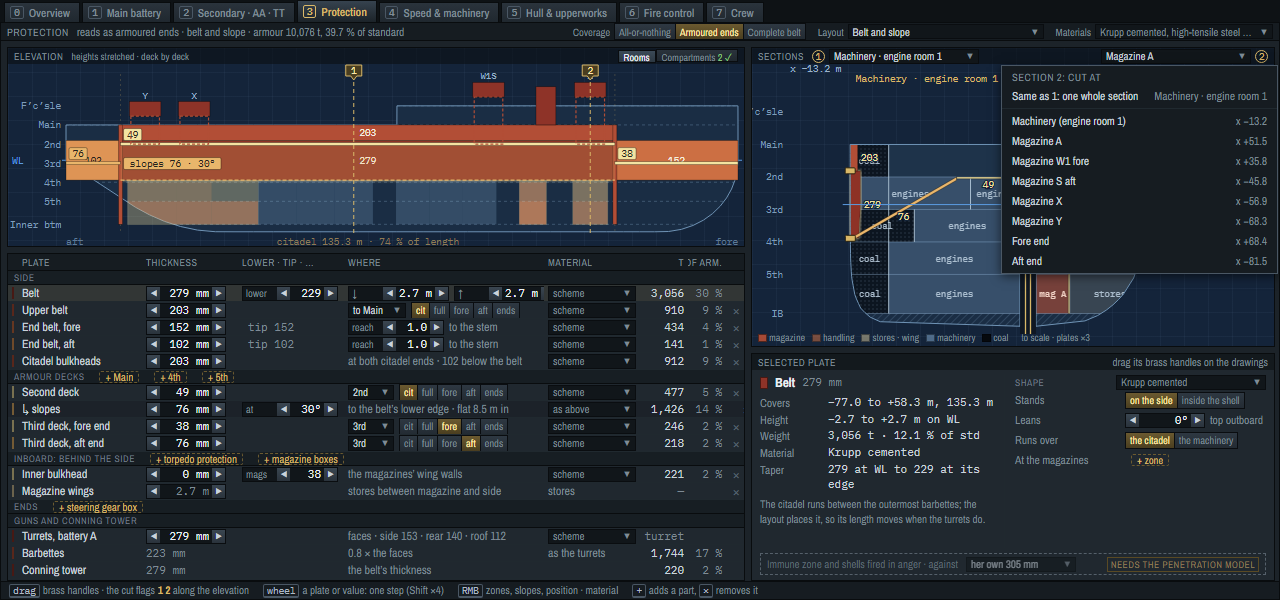
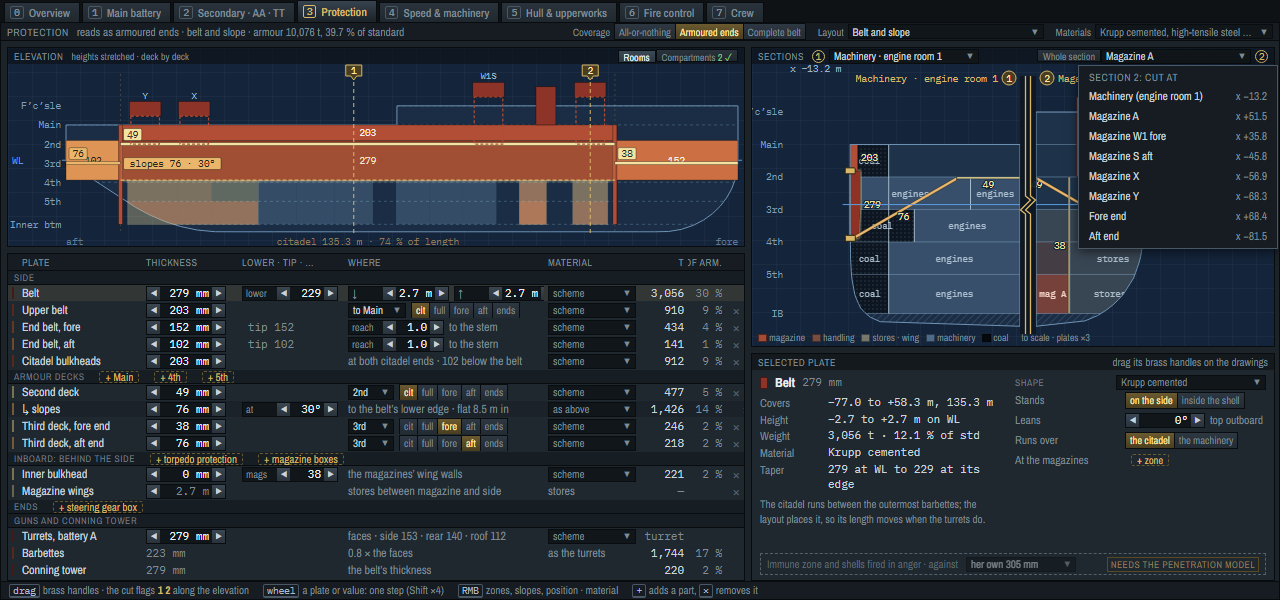
Protection layers mockup: a Whole section toggle locks section 2 to section 1
The halves stay one symmetric section while the flag or the dropdown moves
along the ship; off, section 2 returns where it was.

Changed region(s): [[0.7812, 0.06, 1.0, 0.48]]

diff --git a/docs/designer-ui/protection-layers.html b/docs/designer-ui/protection-layers.html
@@ -573,6 +573,10 @@ const STOPS = stops();
 const stopX = v => v == null ? null : (STOPS.find(q => q.id === v)?.x ?? (isNaN(+v) ? null : +v));
 let cuts = [stopX(params.get('cut1')) ?? STOPS.find(q => q.id === 'mach')?.x ?? 0,
   stopX(params.get('cut2')) ?? (STOPS.find(q => q.id === 'mag:A') || STOPS.find(q => q.id.startsWith('mag:')) || {x: X1 - 5}).x];
+let linked = params.get('link') === '1', cut2Free = cuts[1];   // linked: section 2 follows section 1 (one whole section)
+function setCut(k, x) { cuts[k] = x; if (linked) cuts[1 - k] = x; }
+function toggleLink() { linked = !linked; if (linked) { cut2Free = cuts[1]; cuts[1] = cuts[0]; } else cuts[1] = Math.abs(cut2Free - cuts[0]) < 0.01 ? (STOPS.find(q => Math.abs(q.x - cuts[0]) > 0.01 && q.id.startsWith('mag:')) || STOPS[0]).x : cut2Free; }
+if (linked) cuts[1] = cuts[0];
 function cutName(x) {
   const q = STOPS.find(t => Math.abs(t.x - x) < 0.01);
   if (q) return q.id === 'mach' ? `Machinery · ${q.sub.toLowerCase()}` : q.lab;
@@ -845,10 +849,11 @@ function elevation() {
   compOverlay();
   // the two cuts: flags along the top, dragged along the ship, snapping to the stops
   cuts.forEach((x, k) => {
+    if (linked && k === 1) return;
     const px = ex(x), cg = s('g', {style: 'cursor:ew-resize'});
     cg.append(s('line', {x1: px, x2: px, y1: EL.t - 10, y2: EL.h - EL.b, stroke: '#D9B868', 'stroke-width': 1, 'stroke-dasharray': '4 3', 'pointer-events': 'none'}));
     cg.append(s('path', {d: `M${px - 8},${EL.t - 13} h16 v11 h-5 l-3,4 l-3,-4 h-5 z`, fill: '#4A3E20', stroke: '#D9B868', 'stroke-width': 1}));
-    cg.append(s('text', {x: px, y: EL.t - 4.5, 'text-anchor': 'middle', 'font-size': 9.5, fill: '#FFE7A8', 'pointer-events': 'none'}, String(k + 1)));
+    cg.append(s('text', {x: px, y: EL.t - 4.5, 'text-anchor': 'middle', 'font-size': 9.5, fill: '#FFE7A8', 'pointer-events': 'none'}, linked ? '◆' : String(k + 1)));
     cg.append(s('rect', {x: px - 9, y: EL.t - 14, width: 18, height: EL.h - EL.b - EL.t + 14, fill: 'transparent',
       onmousedown: ev => { ev.preventDefault(); dragging = {kind: 'cut', k, svg}; },
       onmousemove: ev => { if (!dragging) tip(ev, `<b>Section ${k + 1}</b>: ${cutName(cuts[k])}, x ${sx1(cuts[k])} m<br><span class="dim">Drag along the ship; it snaps to the machinery, each magazine and the ends.</span>`); },
@@ -978,9 +983,13 @@ function sections() {
   for (const hd of handles) svg.append(hd);
   // the header: the two cuts' pickers
   const pick = k => h('span', {class: 'dd', style: 'width:150px', onclick: ev => { ev.stopPropagation(); const r = ev.currentTarget.getBoundingClientRect(), a = $('app').getBoundingClientRect(); menu(ev, cutItems(k), [r.left - a.left, r.bottom - a.top + 1]); }}, h('span', {}, cutName(cuts[k])), h('i', {}, '▼'));
+  const link = h('button', {class: 'tog' + (linked ? ' on' : ''), onclick: ev => { ev.stopPropagation(); edit(toggleLink); },
+    onmousemove: ev => tip(ev, linked ? '<b>One whole section</b>, at section 1’s station: the flag and the dropdown move both halves.<br><span class="dim">Click to compare two stations again (2 goes back where it was).</span>'
+      : '<b>Whole section</b>: the right half takes the left’s station and stays with it as you move it.'), onmouseleave: untip}, linked ? '◆ Whole section' : 'Whole section');
+  const p2 = linked ? h('span', {class: 'dd', style: 'width:150px;opacity:0.45;cursor:default'}, h('span', {}, 'as 1'), h('i', {}, '▼')) : pick(1);
   const hd = h('div', {class: 'bh'}, 'Sections',
     h('span', {class: 'cut'}, h('span', {class: 'n'}, '1'), pick(0)),
-    h('b', {}, h('span', {class: 'cut'}, pick(1), h('span', {class: 'n'}, '2'))));
+    h('b', {}, link, h('span', {class: 'cut'}, p2, h('span', {class: 'n', style: linked ? 'opacity:0.45' : ''}, '2'))));
   const lg = h('div', {class: 'legend', style: 'position:absolute;left:6px;bottom:2px'},
     ...[['magazine', 'magazine'], ['handling', 'handling'], ['stores', 'stores · wing'], ['tds', 'TDS'], ['engine_room', 'machinery'], ['bunker', 'coal']]
       .filter(([k]) => k !== 'tds' || HAS_TDS()).filter(([k]) => k !== 'bunker' || S.cells.some(c => c[6] === 'bunker'))
@@ -990,9 +999,8 @@ function sections() {
 }
 function cutItems(k) {
   const items = [{head: `Section ${k + 1}: cut at`}];
-  const o = cuts[1 - k];
-  items.push({lab: `Same as ${2 - k}: one whole section`, key: cutName(o), cur: oneCut(), fn: () => { cuts[k] = o; }}, 'sep');
-  for (const q of STOPS) items.push({lab: q.id === 'mach' ? `Machinery (${q.sub.toLowerCase()})` : q.lab, key: `x ${sx1(q.x)}`, cur: Math.abs(cuts[k] - q.x) < 0.01, fn: () => { cuts[k] = q.x; }});
+
+  for (const q of STOPS) items.push({lab: q.id === 'mach' ? `Machinery (${q.sub.toLowerCase()})` : q.lab, key: `x ${sx1(q.x)}`, cur: Math.abs(cuts[k] - q.x) < 0.01, fn: () => { setCut(k, q.x); }});
   return items;
 }
 // a brass handle: drag along one axis; the value follows (the game: preview while held, one edit on release)
@@ -1050,7 +1058,7 @@ window.addEventListener('mousemove', ev => {
   if (dragging.kind === 'cut') {
     const r = $('elev').getBoundingClientRect(); let x = clamp(exInv(ev.clientX - r.left), -L / 2, L / 2);
     const near = STOPS.find(q => Math.abs(q.x - x) < 3); if (near) x = near.x;
-    cuts[dragging.k] = Math.round(x * 100) / 100; render();
+    setCut(dragging.k, Math.round(x * 100) / 100); render();
     tip(ev, `<b>Section ${dragging.k + 1}</b>: ${cutName(cuts[dragging.k])}, x ${sx1(cuts[dragging.k])} m`);
     return;
   }

diff --git a/docs/designer-ui/protection-layers.md b/docs/designer-ui/protection-layers.md
@@ -45,9 +45,12 @@ they differ: a zone, a box, the inner bulkhead's thicker plate beside the magazi
   convention for a cut-away), and a numbered badge on each side carries that half's name, matching the flags on the
   elevation. Each half's x stands at its outer top corner. Without it, two stations read like a broken profile (review,
   2026-10-16): the deck steps where one cut has the forecastle and the other doesn't, and the finer bow side flares.
-- **One whole section when you want it.** Each dropdown's first item is "Same as the other: one whole section". Both
-  halves then cut at one station, the gutter closes to a plain centreline, and the handles draw once, on the starboard
-  side (`protection-layers-bismarck-whole.png`). Moving either flag apart splits them again.
+- **One whole section when you want it: `Whole section`.** A toggle in the header locks section 2 to section 1. The
+  gutter closes to a plain centreline, the elevation shows one flag (`◆`), section 2's dropdown greys to "as 1", and
+  dragging the flag or picking a station moves both halves together, so you can flip along the ship and stay
+  symmetric. The handles draw once, on the starboard side. Toggling it off puts section 2 back where it was
+  (`protection-layers-linked.png`; `protection-layers-bismarck-whole.png` is the same at the machinery). Decided at
+  review, 2026-10-16: two cuts by default, with this toggle.
 - **Choosing the cuts.** Each half has a dropdown in the header (Machinery · each magazine · fore end · aft end). On the
   elevation, two brass flags `1` `2` mark the cuts; you drag them along the ship and they snap to those stops within 3 m.
 - **The cells,** from the build: each space tinted by what it holds (magazine, handling room, stores, TDS, machinery,
@@ -192,7 +195,7 @@ sides on the wing wall, wings never fuel.
 
 ## Questions for the review
 
-1. ~~Two half-sections or one full section?~~ Settled 2026-10-16: two cuts by default, the split made unmistakable (gutter, break line, badges), and "Same as the other" for one whole section.
+1. ~~Two half-sections or one full section?~~ Settled 2026-10-16: two cuts by default, the split made unmistakable (gutter, break line, badges), and a Whole section toggle that keeps 2 locked to 1.
 2. Sub-rows for zones and slopes in the table, as well as Shape. Or Shape only, keeping the table one row per part?
 3. The Compartments toggle here. Or on the Hull tab later?
 4. Layout in the sub-bar and in the Templates panel. Or only one of them?
@@ -216,7 +219,7 @@ sides on the wing wall, wings never fuel.
 end_aft, bulk, deckN, slopeN, dzoneN, tds, inner, box, wings, steer, main0, barb, ct), `&cut1=` and `&cut2=` (mach,
 mag:A, fore, aft, or x in m), `&do=` edits, comma-separated `path:value` on the armour input
 (`belt_incline_deg:15`, `tds_layers:3`, `magazine_box.side_mm:25`, `layout:german_bulkhead`, `KEY:del`),
-`&cut2=mach` with the default `cut1` gives one whole section; `&menu=layout|cut1|cut2|ID`, `&tip=layout:N|cell:K:N|handle|comp`, `&rooms=0`, `&comp=1`.
+`&link=1` locks section 2 to section 1 (Whole section); `&menu=layout|cut1|cut2|ID`, `&tip=layout:N|cell:K:N|handle|comp`, `&rooms=0`, `&comp=1`.
 
 Screenshots (`png/protection-layers-*.png`):
 
@@ -231,4 +234,5 @@ Screenshots (`png/protection-layers-*.png`):
 - `layout-menu`: the Layout list, hovering German bulkhead.
 - `dread-german`: German bulkhead applied.
 - `bismarck-whole`: both cuts at the machinery, one whole section, the slopes selected.
-- `cutmenu`: section 2's dropdown, with "Same as 1" first.
+- `cutmenu`: section 2's dropdown, the stops.
+- `linked`: Whole section on, cut at magazine A, one flag on the elevation.

diff --git a/docs/designer-ui/README.md b/docs/designer-ui/README.md
@@ -208,7 +208,7 @@ the port plan and the open questions are in `protection.md`. `?ship=dreadnought|
 H8b of `docs/shipgen/protection-plan.md`: the tab learns slopes, inclined and internal belts, zones, belt extent, the
 inner bulkhead, magazine boxes and wings, TDS layers, platform decks, the layout templates and the compartment check.
 The midship section becomes two half-sections, each cut at its own station (machinery and a magazine by default, flags
-`1` `2` on the elevation), split by a gutter with a break line, or one whole section when both pick the same station;
+`1` `2` on the elevation), split by a gutter with a break line, or one whole section with the Whole section toggle (2 locked to 1);
 the cells' contents tinted. The table gains sub-rows (zones, slopes) and an Inboard
 group; the selected plate gains a Shape column; the sub-bar gains Layout. Real builds of seven designs
 (`protection-layers-data.js`); `?ship=bismarck|dreadnought|nelson|kent|dunkerque|kgv|destroyer`. The reasoning, the
@@ -227,7 +227,8 @@ findings, the review questions and the port plan are in `protection-layers.md`.
 | `png/protection-layers-layout-menu.png` | the Layout list, hovering German bulkhead |
 | `png/protection-layers-dread-german.png` | Dreadnought after German bulkhead |
 | `png/protection-layers-bismarck-whole.png` | both cuts at one station: a whole section |
-| `png/protection-layers-cutmenu.png` | section 2's dropdown, "Same as 1" first |
+| `png/protection-layers-cutmenu.png` | section 2's dropdown: the stops |
+| `png/protection-layers-linked.png` | Whole section on, at magazine A: one flag, the halves locked |
 
 ## Screenshots (`png/`)
 
